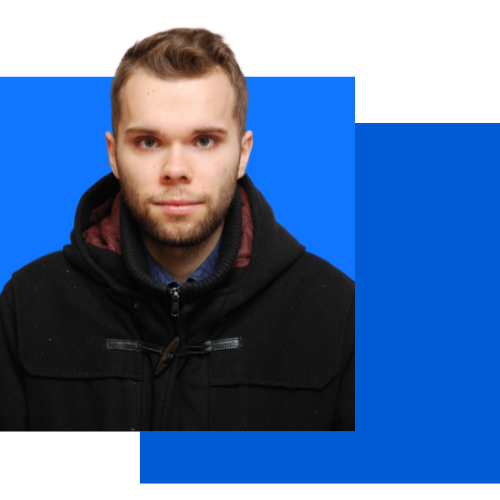
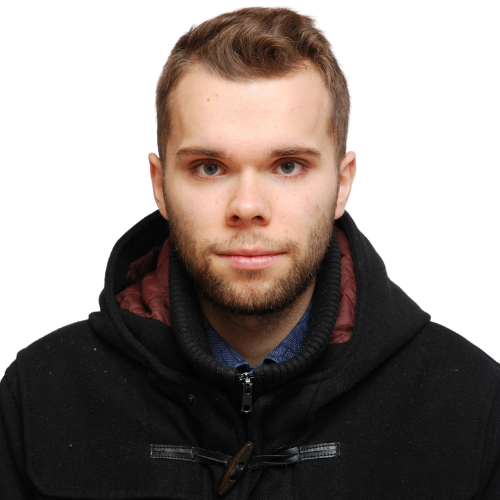
Add files via upload

diff --git a/style.css b/style.css
@@ -40,9 +40,32 @@ header nav ul li:hover a {
   justify-content: space-between;
   margin-top: 5rem;
 }
-.Container1 img {
-  max-width: 80%;
-  margin-left: 2rem;
+
+.photo {
+  position: relative;
+}
+
+.cadre1 {
+  height: 20rem;
+  width: 20rem;
+  background-color: blue;
+  z-index: 1;
+  position: absolute;
+  margin: -1rem;
+  transition: all 0.5s ease-in-out;
+  background-image: url("./photoDeProfil.png");
+  background-size: cover;
+}
+
+.cadre1:hover {
+  margin: -5rem;
+}
+
+.cadre2 {
+  height: 20rem;
+  width: 20rem;
+  background-color: #1076ff;
+  z-index: 2;
 }
 
 .Container1 h1 {
@@ -197,7 +220,7 @@ footer p {
 
 
 /* Media Queries */
-@media (max-width: 700px) {
+@media (max-width: 800px) {
   header img {
     height: 2rem;
   }
@@ -206,10 +229,20 @@ footer p {
     flex-direction: column;
     text-align: center;
   }
-  .Container1 img {
-    max-width: 50%;
-    margin-left: 0;
+
+  .photo {
+    margin: 6rem auto 0rem auto;
   }
+  .cadre1 {
+    height: 10rem;
+    width: 10rem;
+    
+  }
+  .cadre2 {
+    height: 10rem;
+    width: 10rem;
+  }
+
   .Container1 h1 {
     font-size: 1.5rem;
   }
@@ -280,6 +313,7 @@ footer p {
 }
 
 @media screen and (max-width: 380px) {
+
   header img {
     height: 1.5rem;
   }
@@ -288,10 +322,11 @@ footer p {
     flex-direction: column;
     text-align: center;
   }
-  .Container1 img {
-    max-width: 50%;
-    margin-left: 0;
+
+  .cadre1 {
+    margin: -3rem;
   }
+
   .Container1 h1 {
     font-size: 1.5rem;
   }

diff --git a/index.html b/index.html
@@ -36,7 +36,8 @@
         </div>
       </div>
       <div class="photo">
-        <img src="./photoDeProfil.png" alt="Deux carré, l'un bleu foncé, l'autre bleu clair. Dessus ce trouve ma photo de profil." />
+        <div class="cadre1"></div>
+        <div class="cadre2"></div>
       </div>
     </div>
     <div class="Container2">
